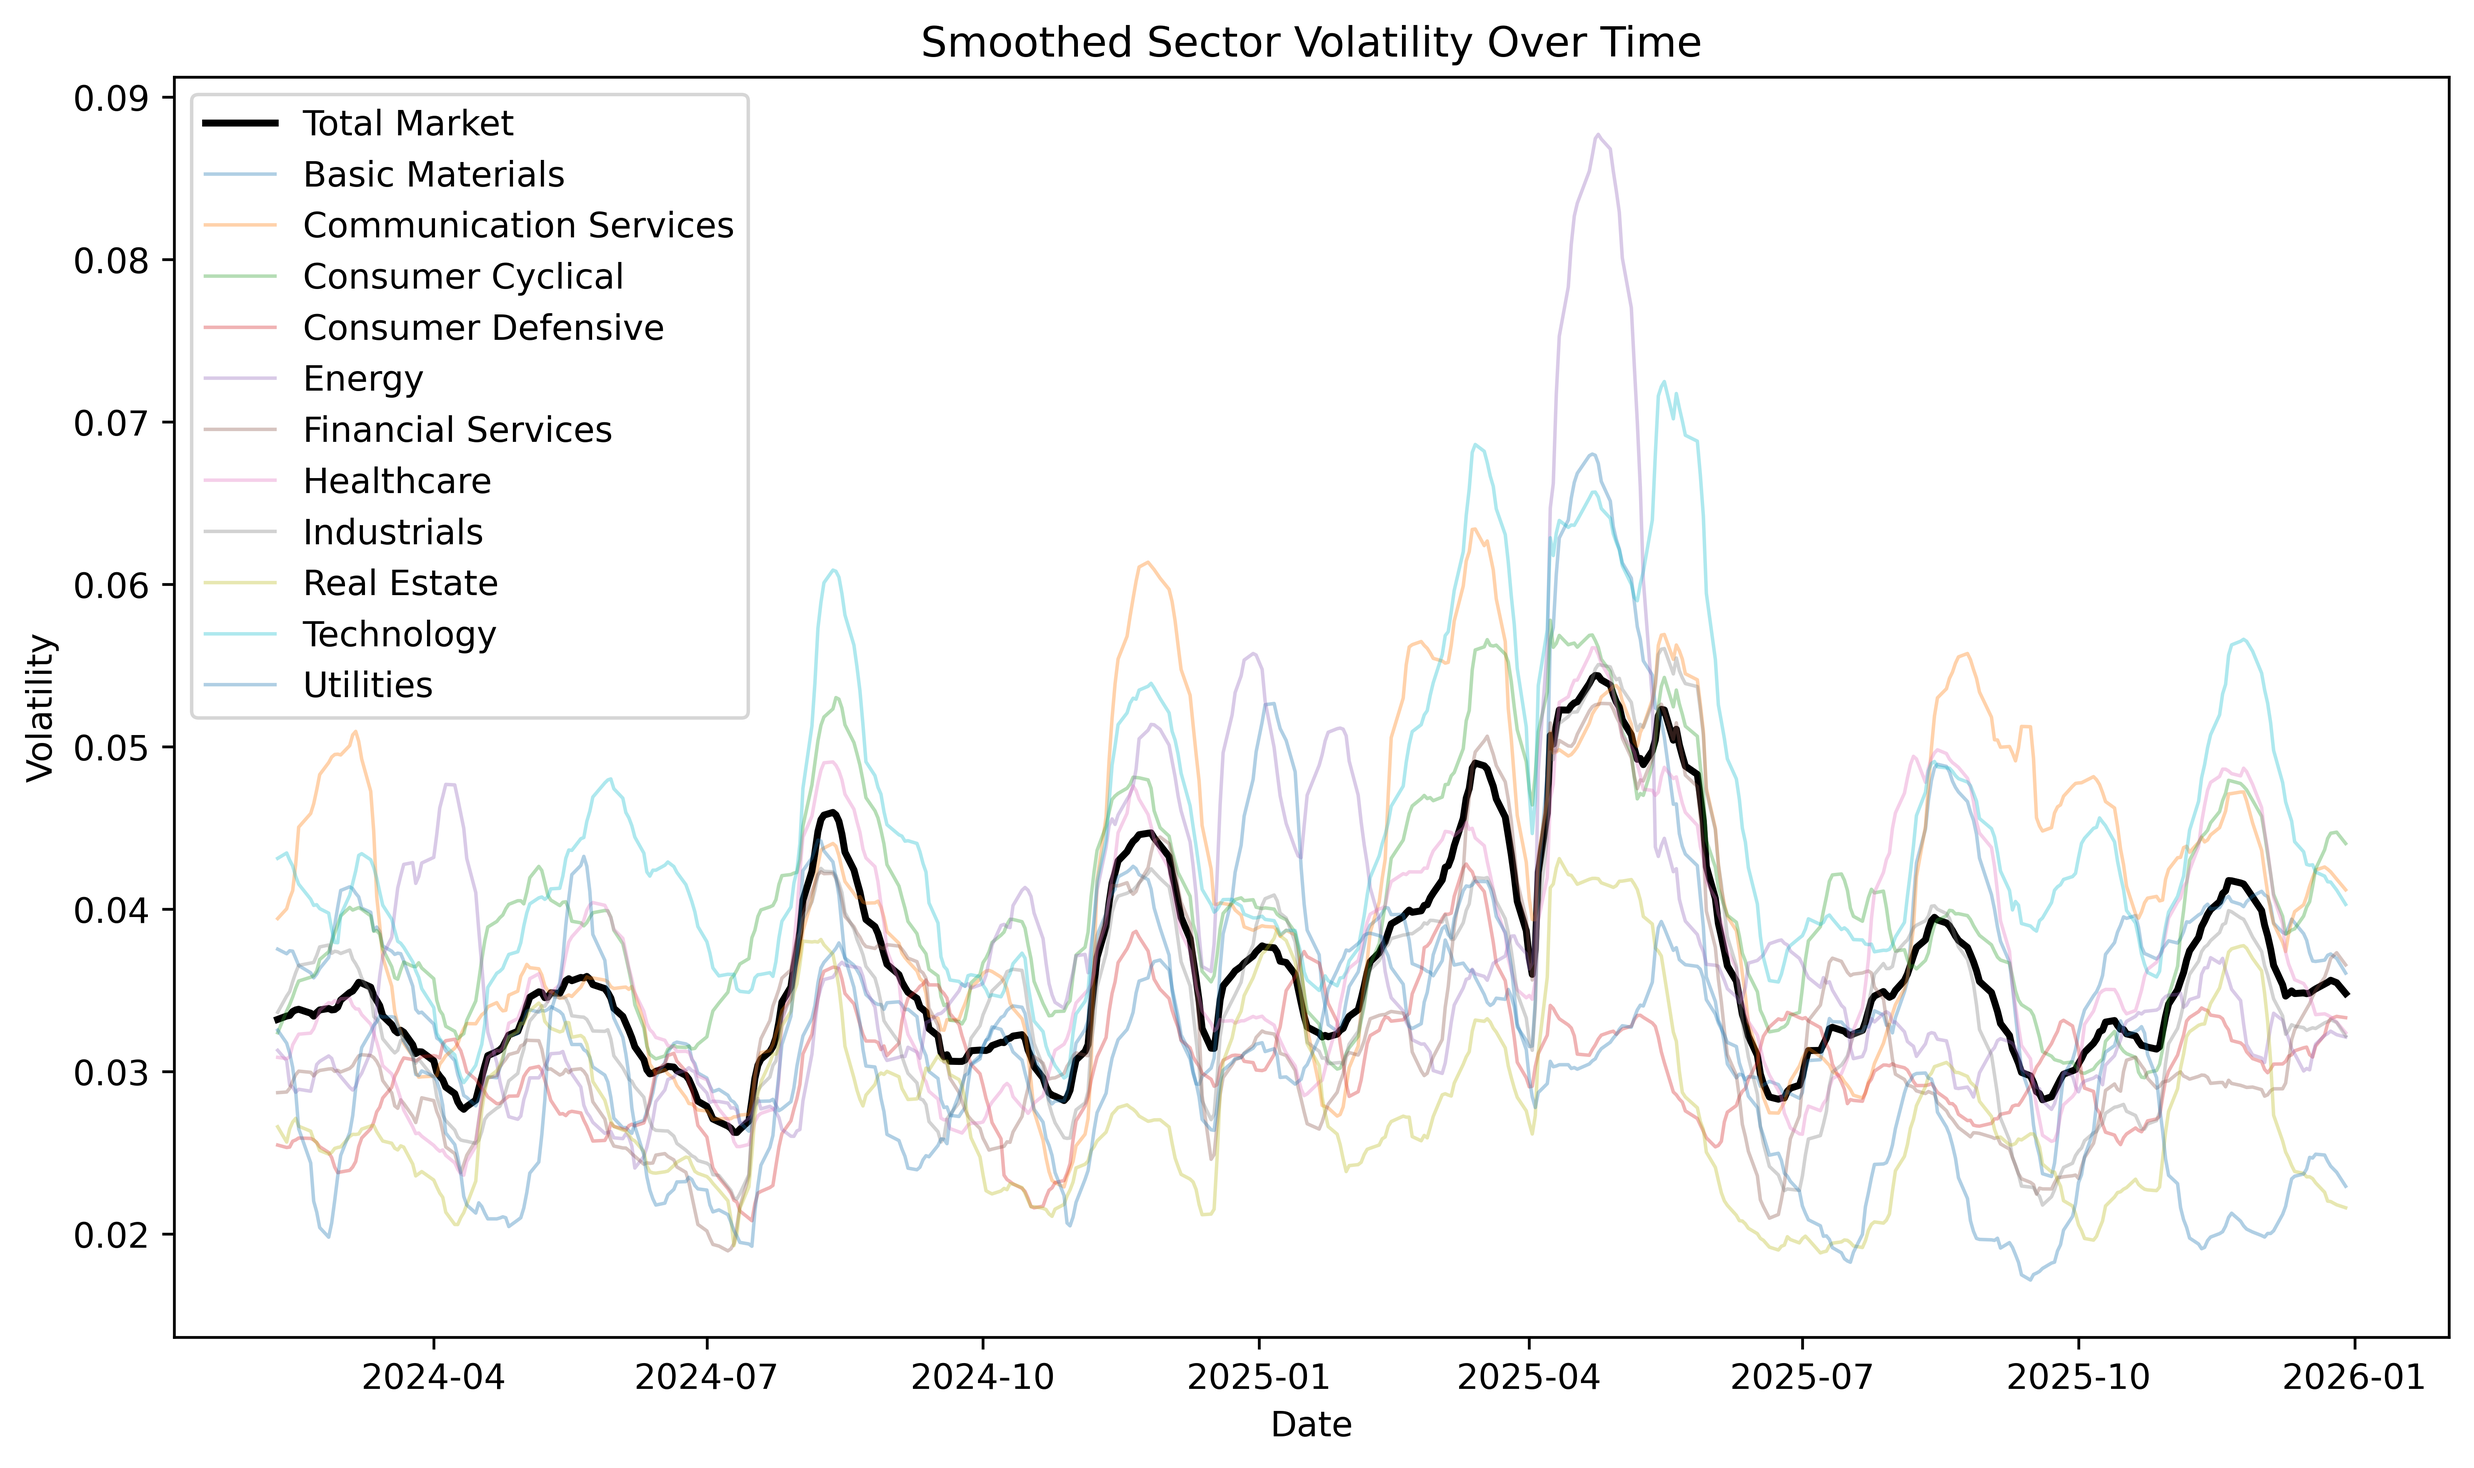
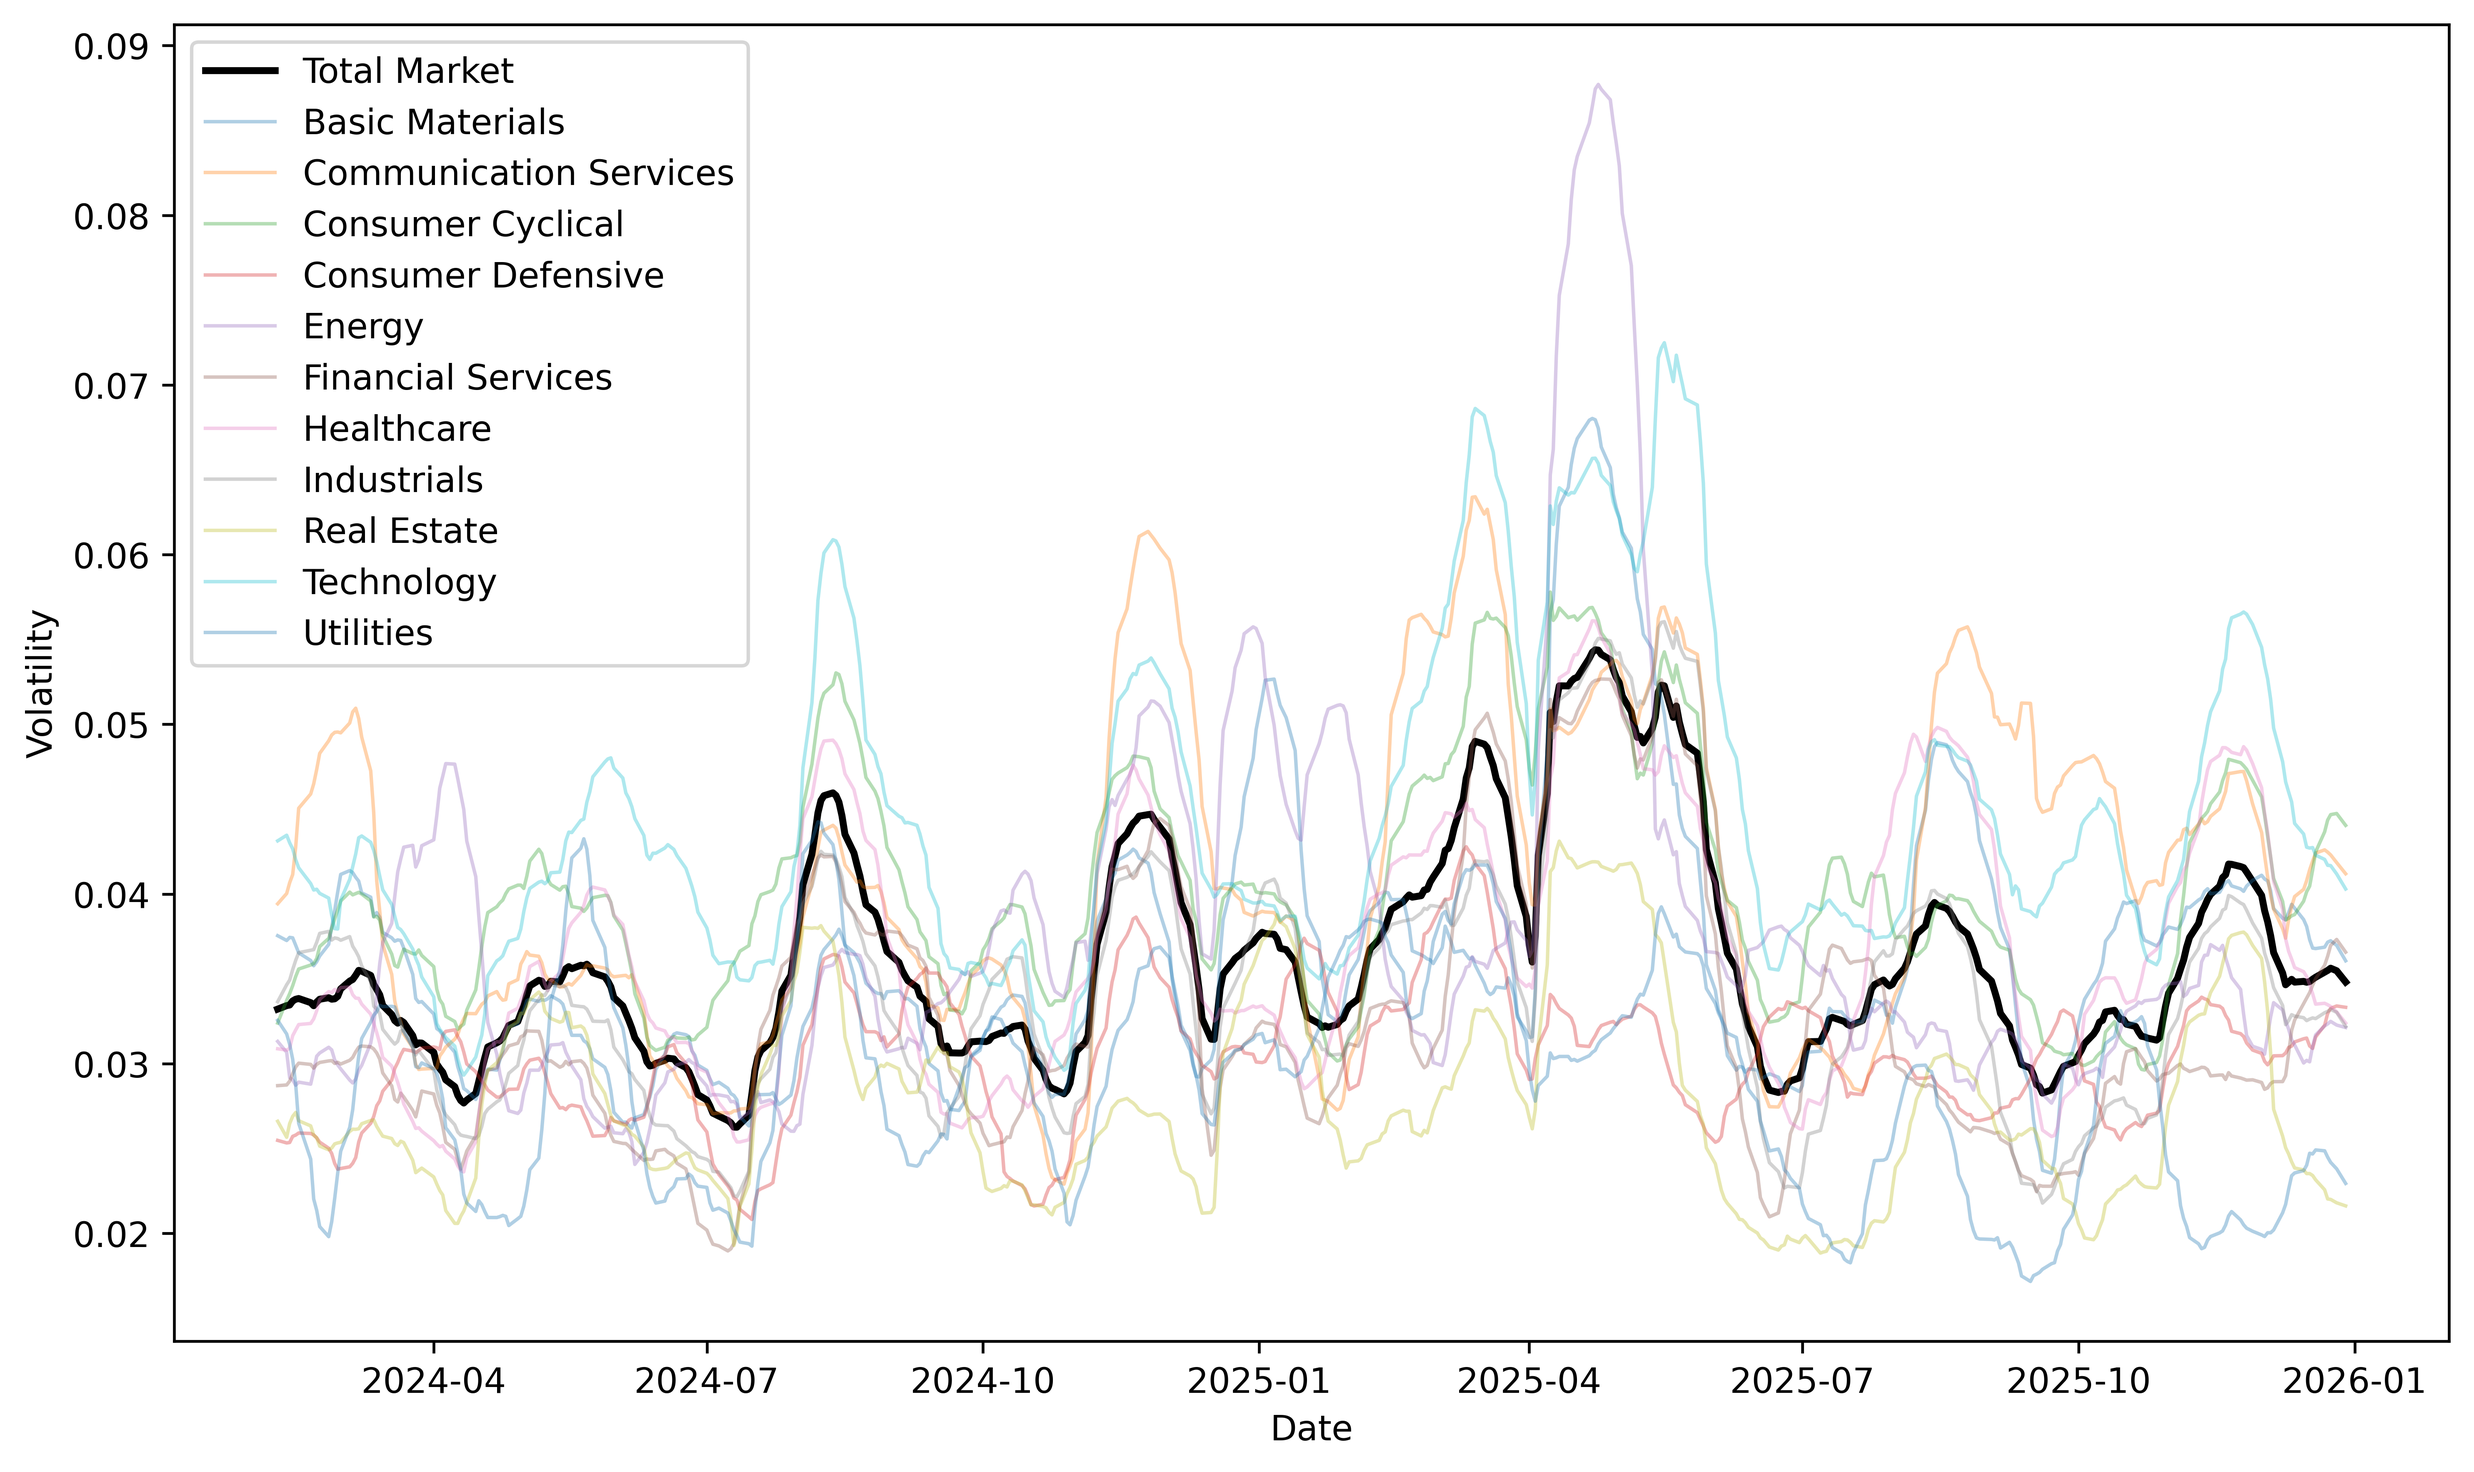
Updated some images; updated files to support new file names.

diff --git a/Project/Models/H_prep.py b/Project/Models/H_prep.py
@@ -36,9 +36,9 @@ def import_data(testing: bool =False, extra_features: bool =True, cluster: bool 
     table=None
     print("------- Downloading Data")
     if (testing):
-        table=pq.read_table(cwd / "PyScripts" / "Data" / "raw_data_2_years.parquet")
+        table=pq.read_table(cwd / "Project" / "Data" / "raw_data_2_years.parquet")
     else:
-        table=pq.read_table(cwd / "PyScripts" / "Data" / "raw_data_8_years.parquet")
+        table=pq.read_table(cwd / "Project" / "Data" / "raw_data_8_years.parquet")
     DATA=table.to_pandas()
     print("Finished Downloading Data -------")
     print("Initial shape:", DATA.shape[0], "rows,", DATA.shape[1], "columns.")
@@ -84,7 +84,7 @@ def import_data(testing: bool =False, extra_features: bool =True, cluster: bool 
             representative_stocks.append(X_stocks.index[indices[np.argmin(distances)]])
 
         DATA=DATA.loc[:, idx[:, 'Stocks', representative_stocks]]
-        print("---EXTRA---: Applied clustering and selected representative stocks.")
+        print("---REDUCE---: Applied clustering and selected representative stocks.")
         print("Current shape:", DATA.shape[0], "rows,", DATA.shape[1], "columns.")
 
     
@@ -98,21 +98,16 @@ def import_data(testing: bool =False, extra_features: bool =True, cluster: bool 
         to_drop=[column for column in upper.columns if any(upper[column]>corr_threshold)]
 
         DATA=DATA.drop(columns=to_drop, level='Ticker')
-        print(f"---EXTRA---: (corr_level={corr_level}) Dropped {len(to_drop)} highly correlated stocks by closing percent change.")
+        print(f"---REDUCE---: (corr_level={corr_level}) Dropped {len(to_drop)} highly correlated stocks by closing percent change.")
         print("Current shape:", DATA.shape[0], "rows,", DATA.shape[1], "columns.")
 
     if (extra_features):
         DATA[("Day of Week", "Calendar", "All")]=DATA.index.dayofweek
         print("---EXTRA---: Created Day of Week.")
-    
-        High_=DATA.loc[:, idx['High', :, :]]
-        Low_=DATA.loc[:, idx['Low', :, :]]
-        DATA=pd.concat([DATA, pd.DataFrame(High_.values - Low_.values, index=High_.index, columns=High_.columns).rename(columns={'High' : 'Daily Range'}, level=0)], axis=1)
-        print("---EXTRA---: Created Daily Range.")
 
     return DATA, y_regression
 
-def clean_data(DATA: pd.DataFrame, y_regression: pd.DataFrame, lookback_period: int =7, lag_period: list =[1], extra_features: bool =True, raw: bool =False, sector: bool =False, corr_threshold: float =0.95, corr_level: int =0) -> tuple[pd.DataFrame, pd.Series]:    
+def clean_data(DATA: pd.DataFrame, y_regression: pd.DataFrame, lookback_period: int =7, lag_period: list =[1], raw: bool =False, sector: bool =False, corr_threshold: float =0.95, corr_level: int =0) -> tuple[pd.DataFrame, pd.Series]:    
     if (lookback_period < 5 and lookback_period!=0): 
         raise ValueError("lookback_period must be greater than or equal to 6.")
     if isinstance(lag_period, int):
@@ -142,7 +137,7 @@ def clean_data(DATA: pd.DataFrame, y_regression: pd.DataFrame, lookback_period: 
                 np.divide((price.values - ema.values), vol.values, out=z_score, where=(vol.values > 0))
                 new_columns.append(norm_vol.rename(columns={metric: f"{metric} VOL {lookback_period}"}, level=0))
                 new_columns.append(pd.DataFrame(z_score, index=DATA.index, columns=price.columns).rename(columns={metric: f"{metric} Z-Score {lookback_period}"}, level=0))
-            print("Created EMA, Rolling Volatility (Scaled) and Rolling Z-Score.")
+            print("Created Rolling Volatility (Scaled) and Rolling Z-Score.")
 
             rolling_High_=DATA.loc[:, idx['High', :, :]].rolling(window=lookback_period).max().rename(columns={'High': f"MAX {lookback_period}"}, level=0)
             rolling_Low_=DATA.loc[:, idx['Low', :, :]].rolling(window=lookback_period).min().rename(columns={'Low': f"MIN {lookback_period}"}, level=0)
@@ -163,11 +158,10 @@ def clean_data(DATA: pd.DataFrame, y_regression: pd.DataFrame, lookback_period: 
             new_columns.append((price_volume_rol_sum / volume_rol_sum).rename(columns={'Volume': f'Rolling VWAP {lookback_period}'}, level=0))
             print("Created Rolling Volume Weighted Average Price.")
 
-        if (extra_features):
-            for metric in DATA.columns.get_level_values(0).unique():
-                if metric[:4] == "Open":
-                    new_columns.append(DATA.loc[:, idx[metric, :, :]].shift(-1).rename(columns={metric: f"{metric} Forward Lag"}, level=0))
-            print("---EXTRA---: Created Open Metrics Forward Lag.")
+        for metric in DATA.columns.get_level_values(0).unique():
+            if metric[:4] == "Open":
+                new_columns.append(DATA.loc[:, idx[metric, :, :]].shift(-1).rename(columns={metric: f"{metric} Forward Lag"}, level=0))
+        print("Created Open Metrics Forward Lag.")
 
         DATA.drop(columns=["Close", "Open", "High", "Low"], level=0, inplace=True)
         DATA=DATA.sort_index(axis=1)
@@ -190,14 +184,14 @@ def clean_data(DATA: pd.DataFrame, y_regression: pd.DataFrame, lookback_period: 
 
     if (sector):
         if ((corr_level not in [0, 2])): print("!!!WARNING!!!: Since dimensionality was reduced before grouping by sector, the sector feature averages may no longer reflect the sector itself.")
-        lookup_df = pd.read_csv(cwd / "PyScripts" / "Data" / "stock_lookup_table.csv")
+        lookup_df = pd.read_csv(cwd / "Project" / "Data" / "stock_lookup_table.csv")
         sector_map = lookup_df.set_index('Ticker')['Sector'].to_dict()
 
         metrics = X.columns.get_level_values(0)
         sectors = X.columns.get_level_values(2).map(sector_map)
         
         X = X.T.groupby([metrics, sectors]).mean().T
-        print("---EXTRA---: Grouped Features by Sector Averages.")
+        print("---REDUCE---: Grouped Features by Sector Averages.")
         print("Current shape:", X.shape[0], "rows,", X.shape[1], "columns.")
 
     if (corr_level in [2, 3]):
@@ -225,7 +219,7 @@ def clean_data(DATA: pd.DataFrame, y_regression: pd.DataFrame, lookback_period: 
                 for ticker in to_drop:
                     cols_to_remove.append((feature, ticker))
         X=X.drop(columns=cols_to_remove)
-        print(f"---EXTRA---: (corr_level={corr_level}) Dropped {len(cols_to_remove)} highly correlated feature columns.")
+        print(f"---REDUCE---: (corr_level={corr_level}) Dropped {len(cols_to_remove)} highly correlated feature columns.")
 
     print("Predictors, and Target (Regression) successfully split.")
 
@@ -323,7 +317,7 @@ def efficient_clean_data(DATA: pd.DataFrame, y_regression: pd.DataFrame, sector:
     if (new_columns):
         if (sector):
             if (corr_level not in [2, 0]): print("!!!WARNING!!!: Since dimensionality was reduced before grouping by sector, the sector feature averages may no longer reflect the sector itself.")
-            lookup_df = pd.read_csv(cwd / "PyScripts" / "Data" / "stock_lookup_table.csv")
+            lookup_df = pd.read_csv(cwd / "Project" / "Data" / "stock_lookup_table.csv")
             sector_map = lookup_df.set_index('Ticker')['Sector'].to_dict()
 
             metrics = X.columns.get_level_values(0)

diff --git a/Project/Models/grapher.py b/Project/Models/grapher.py
@@ -7,6 +7,23 @@ DATA[0].dropna(how='any', axis=0, inplace=True)
 
 idx=pd.IndexSlice
 
+fig, ax = plt.subplots(figsize=(16, 7), dpi=100)
+target_data = DATA[0].loc[:, idx["Close", "Index", "^SPX"]]
+
+ax.plot(target_data.index, target_data.values, 
+        color='#2c3e50', linewidth=1.5, alpha=0.9, label='S&P 500 Index')
+ax.axvspan(pd.Timestamp('2020-02-15'), pd.Timestamp('2020-04-15'), 
+           color='#e74c3c', alpha=0.15, label='2020 COVID-19 Recession')
+ax.axvspan(pd.Timestamp('2025-02-01'), pd.Timestamp('2025-05-01'), 
+           color='#f39c12', alpha=0.15, label='2025 Tariff Shock')
+
+ax.set_xlabel("Timeline", fontsize=12, labelpad=12)
+ax.set_ylabel("Closing Value", fontsize=12, labelpad=12)
+ax.grid(visible=True, linestyle=':', alpha=0.5, color='gray')
+ax.legend(loc='upper left', frameon=False, fontsize=20)
+
+plt.savefig('Project/Models/results/image_results/SP500IndexValues/sp500_styled_analysis.png', dpi=600, bbox_inches="tight")
+plt.show()
 
 # plt.figure(figsize=(16, 5), dpi=100)
 # plt.grid(visible=True, linestyle='--', alpha=0.5, color='gray')
@@ -39,21 +56,21 @@ idx=pd.IndexSlice
 # plt.savefig('../s&p500_index_values_data_display.png', dpi=600, bbox_inches="tight")
 # plt.show()
 
-plt.figure(figsize=(8, 5))
-plt.grid(visible=True, linestyle='--', alpha=0.5, color='gray')
-plt.plot(DATA[0].tail(100).index, DATA[0].tail(100).loc[:, idx["Close", "Index", "^SPX"]], linestyle='-', alpha=0.5)
-temp_mean=DATA[0].tail(100).loc[:, idx["Close", "Index", "^SPX"]].mean()
-plt.plot(DATA[0].tail(100).index, [temp_mean for _ in range(100)], linestyle='-', alpha=0.5)
-plt.xlabel("Date")
-plt.ylabel("Closing Value")
-plt.savefig('../s&p500_index_values_past_100_days.png', dpi=600, bbox_inches="tight")
-plt.show()
+# plt.figure(figsize=(8, 5))
+# plt.grid(visible=True, linestyle='--', alpha=0.5, color='gray')
+# plt.plot(DATA[0].tail(100).index, DATA[0].tail(100).loc[:, idx["Close", "Index", "^SPX"]], linestyle='-', alpha=0.5)
+# temp_mean=DATA[0].tail(100).loc[:, idx["Close", "Index", "^SPX"]].mean()
+# plt.plot(DATA[0].tail(100).index, [temp_mean for _ in range(100)], linestyle='-', alpha=0.5)
+# plt.xlabel("Date")
+# plt.ylabel("Closing Value")
+# plt.savefig('../s&p500_index_values_past_100_days.png', dpi=600, bbox_inches="tight")
+# plt.show()
 
-plt.figure(figsize=(8, 5))
-plt.grid(visible=True, linestyle='--', alpha=0.5, color='gray')
-plt.plot(DATA[0].tail(100).index, DATA[0].tail(101).loc[:, idx["Close", "Index", "^SPX"]].pct_change().dropna(how="any", axis=0), linestyle='-', alpha=0.5)
-plt.plot(DATA[0].tail(100).index, [0 for _ in range(100)], linestyle='-', alpha=0.5)
-plt.xlabel("Date")
-plt.ylabel("Closing Return Value")
-plt.savefig('../s&p500_index_values_past_100_days_close_pc.png', dpi=600, bbox_inches="tight")
-plt.show()
+# plt.figure(figsize=(8, 5))
+# plt.grid(visible=True, linestyle='--', alpha=0.5, color='gray')
+# plt.plot(DATA[0].tail(100).index, DATA[0].tail(101).loc[:, idx["Close", "Index", "^SPX"]].pct_change().dropna(how="any", axis=0), linestyle='-', alpha=0.5)
+# plt.plot(DATA[0].tail(100).index, [0 for _ in range(100)], linestyle='-', alpha=0.5)
+# plt.xlabel("Date")
+# plt.ylabel("Closing Return Value")
+# plt.savefig('../s&p500_index_values_past_100_days_close_pc.png', dpi=600, bbox_inches="tight")
+# plt.show()

diff --git a/Project/EDA/EDA.py b/Project/EDA/EDA.py
@@ -14,14 +14,14 @@ else:
 
 import sys
 import os
-sys.path.append(os.path.abspath(cwd / "PyScripts" / "Models"))
+sys.path.append(os.path.abspath(cwd / "Project" / "Models"))
 from H_prep import import_data, clean_data
 
 
 pd.set_option('display.max_rows', 100)
 pd.set_option('display.max_columns', 8)
 
-lookup_df = pd.read_csv(cwd / "PyScripts" / "Data" / "stock_lookup_table.csv")
+lookup_df = pd.read_csv(cwd / "Project" / "Data" / "stock_lookup_table.csv")
 
 X, y=import_data(extra_features=False, corr_level=0, testing=True)
 
@@ -90,15 +90,13 @@ sector_vol_series=vol_df.T.groupby(sector_vol_map).mean().T
 
 total_average_volatility=vol_df.mean(axis=1)
 plt.figure(figsize=(10, 6))
-plt.title("Total Average Sector Volatility Over Time against Sector Specific")
 plt.plot(total_average_volatility.index, total_average_volatility, color="black", linewidth=2, label="Total Market")
 sector_vol_series=vol_df.T.groupby(sector_vol_map).mean().T
 for sector in sector_vol_series.columns:
     plt.plot(sector_vol_series.index, sector_vol_series[sector], label=sector, alpha=0.35, linewidth=1)
-plt.title("Smoothed Sector Volatility Over Time")
 plt.xlabel("Date")
 plt.ylabel("Volatility")
 plt.legend()
 plt.tight_layout()
-plt.savefig(f'../all_sector_rolling_VOL_28.png', dpi=600, bbox_inches="tight")
+plt.savefig(f'Project/Models/results/image_results/SP500FeatureImages/all_sector_rolling_VOL_28.png', dpi=600, bbox_inches="tight")
 plt.show()
